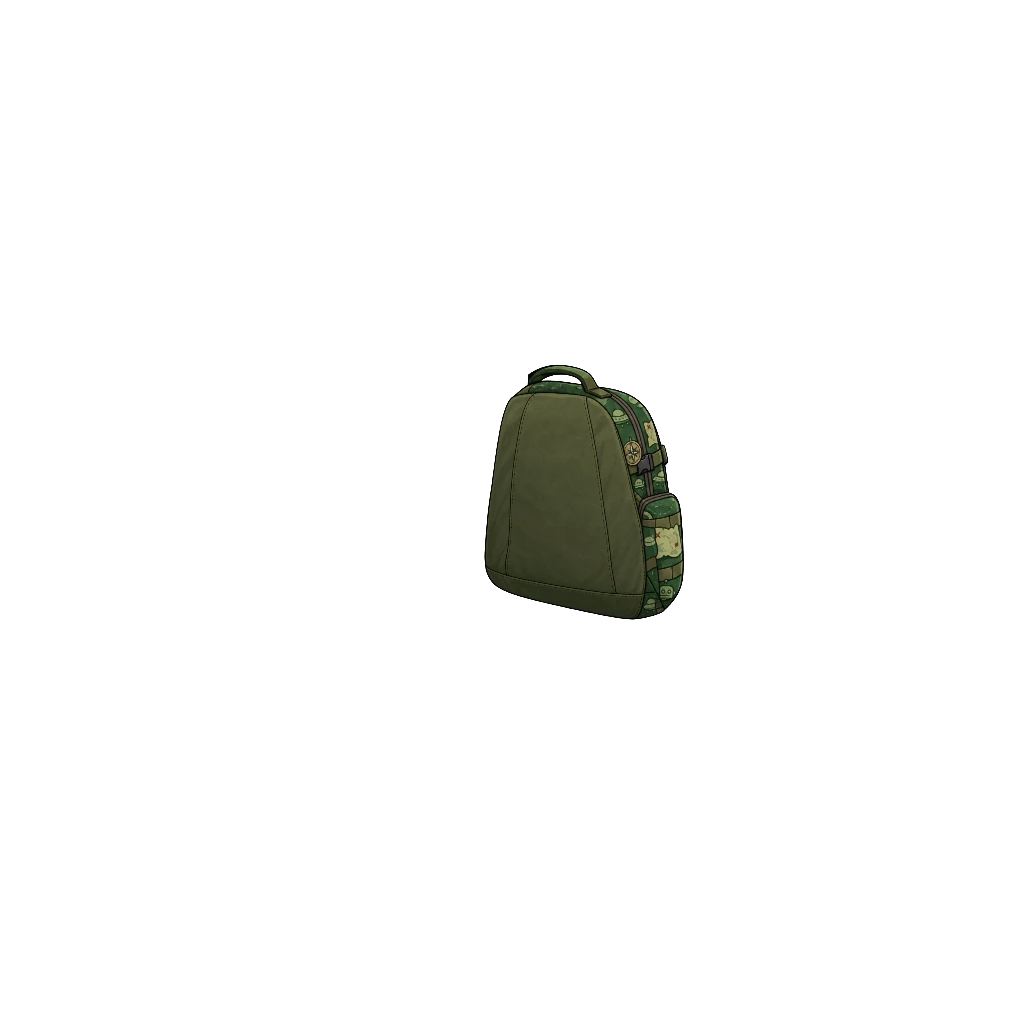
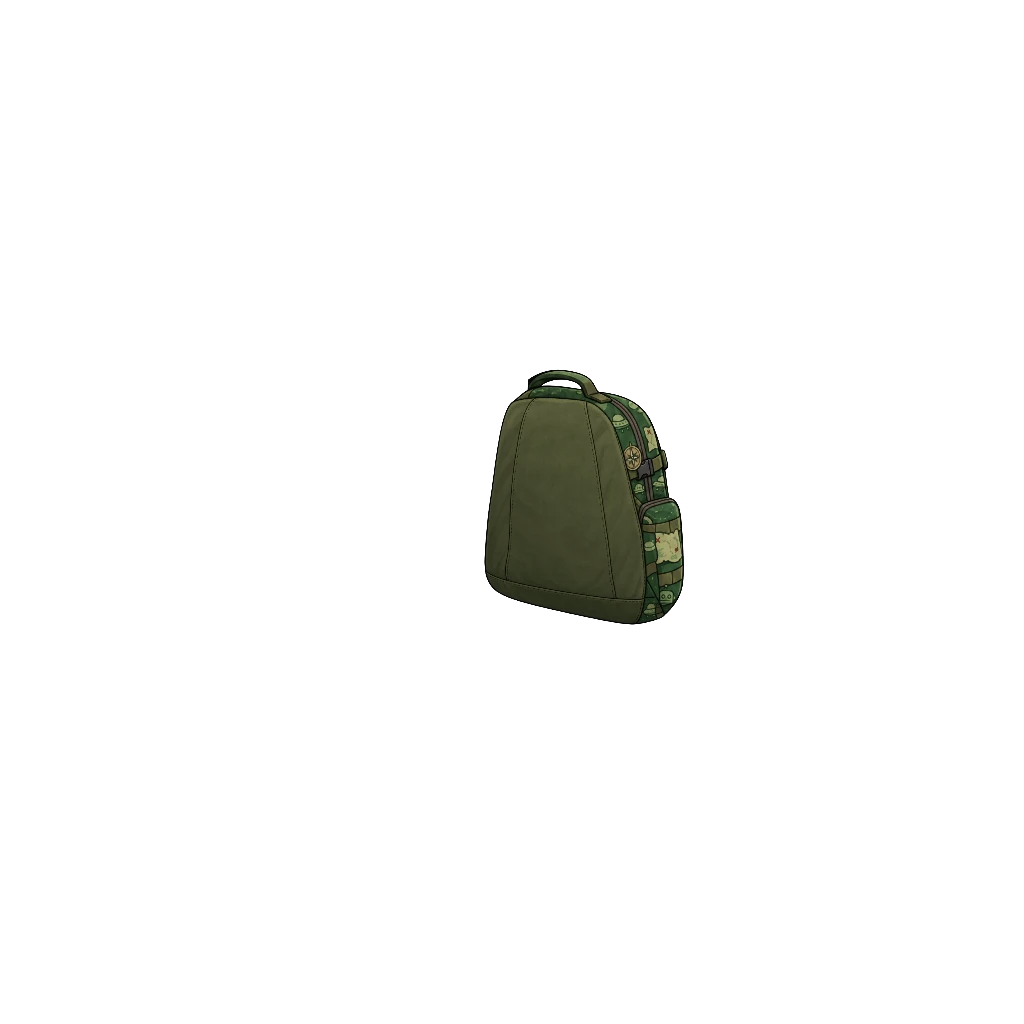
탐험가 가방: 배낭만 아래로 5 (#1028)
Claude-Session: https://claude.ai/code/session_018maNuYqDfFyRSe9uKpZhPR

Changed region(s): [[0.4688, 0.3438, 0.6875, 0.625]]

diff --git a/src/data/avatarEquipment.js b/src/data/avatarEquipment.js
@@ -567,8 +567,9 @@ export const AVATAR_CATALOG = [
      + 올리브 어깨끈 두 줄(버클 두 개씩, 1023×708). 정글 탐험대와 짝. 참고 그림을 정글 탐험대 가슴으로 매칭해 아바타 좌표에 올림.
      배낭은 몸 뒤 오른쪽(등 장비 기본 z15) — 배율 0.22, 오른쪽 끝 x684·아래 끝 y620, 상자 (484,364,684,620).
      어깨끈은 조각마다(왼 x0~308·오른 x709~) 배율 0.21, 윗선 어깨선·바깥선은 옷마다 그 옷의 팔과 몸통 사이 선(topVariant), 옷 위 zFront 48.
-     칼라가 끈 위로 — 바다·번개·썸머·도토리·우주는 칼라·후드 모양대로 끈을 지움. */
-  { id: "back_xpack_boy", slot: "back", label: "탐험가 가방", emoji: "🎒", price:DECOR_PRICE.rare, rarity: "rare", theme: "adventure", forGender: "boy", img: "assets/avatar/back/explorer-bag-boy.webp", imgFront: "assets/avatar/back/explorer-bag-straps-boy.webp", zFront: 48, topVariant: { top_tee_white: { imgFront: "assets/avatar/back/explorer-bag-straps-tee-boy.webp" }, top_vest: { imgFront: "assets/avatar/back/explorer-bag-straps-vest-boy.webp" }, top_pirate: { imgFront: "assets/avatar/back/explorer-bag-straps-pirate-boy.webp" }, top_hoodie_mint: { imgFront: "assets/avatar/back/explorer-bag-straps-hoodie-boy.webp" }, top_board_boy: { imgFront: "assets/avatar/back/explorer-bag-straps-board-boy.webp" }, top_acorn: { imgFront: "assets/avatar/back/explorer-bag-straps-acorn-boy.webp" }, top_space: { imgFront: "assets/avatar/back/explorer-bag-straps-space-boy.webp" }, top_beach_boy: { imgFront: "assets/avatar/back/explorer-bag-straps-beach-boy.webp" } }, thumb: "assets/avatar/thumb/back_xpack_boy.webp" },
+     칼라가 끈 위로 — 바다·번개·썸머·도토리·우주는 칼라·후드 모양대로 끈을 지움.
+     [2026-10-13] 사용자 조정 — 배낭만 아래로 5(아래 끝 y625, ?v=2). 상자 (484,369,684,625). */
+  { id: "back_xpack_boy", slot: "back", label: "탐험가 가방", emoji: "🎒", price:DECOR_PRICE.rare, rarity: "rare", theme: "adventure", forGender: "boy", img: "assets/avatar/back/explorer-bag-boy.webp?v=2", imgFront: "assets/avatar/back/explorer-bag-straps-boy.webp", zFront: 48, topVariant: { top_tee_white: { imgFront: "assets/avatar/back/explorer-bag-straps-tee-boy.webp" }, top_vest: { imgFront: "assets/avatar/back/explorer-bag-straps-vest-boy.webp" }, top_pirate: { imgFront: "assets/avatar/back/explorer-bag-straps-pirate-boy.webp" }, top_hoodie_mint: { imgFront: "assets/avatar/back/explorer-bag-straps-hoodie-boy.webp" }, top_board_boy: { imgFront: "assets/avatar/back/explorer-bag-straps-board-boy.webp" }, top_acorn: { imgFront: "assets/avatar/back/explorer-bag-straps-acorn-boy.webp" }, top_space: { imgFront: "assets/avatar/back/explorer-bag-straps-space-boy.webp" }, top_beach_boy: { imgFront: "assets/avatar/back/explorer-bag-straps-beach-boy.webp" } }, thumb: "assets/avatar/thumb/back_xpack_boy.webp" },
   /* 들꽃 크로스백 [2026-10-05] — 여아. 갈색 가죽 크로스백(흰 들꽃 장식), 사용자 원화 230×343. 들꽃 탐험가 옷과 짝.
      사용자 배치 참고 그림(얼굴 매칭 0.915)에 맞춤 — 가방 몸통 매칭(0.986) 배율 0.73·-1° 회전, 끈·가방 이음매 (526,568).
      끈은 가방에서 떼어 옷깃 아래 끝(463,421)까지 늘이고(×0.998) y419 위는 지워 옷깃 밑으로 들어가 보이게.

diff --git a/art-src/README.md b/art-src/README.md
@@ -653,4 +653,4 @@ bbox로 여백만 잘라내고 배포본은 높이 480px로 축소했다(전부 
 | (원본 같음) 어깨끈 가방 5종 | **칼라가 끈 위로 (2026-10-13)** — 해적 가방에서 정한 규칙을 기존 가방에도: 탐험 가방(남)·번개 크로스백(남)·들꽃 크로스백·딸기 크로스백·하늘 가방. 옷마다 칼라(남아는 바다·번개 후드, 썸머 칼라, 도토리 잎 칼라, 우주 목 링 / 여아는 칼라 7벌 + 마법사 망토 모자)대로 끈을 지움. 이미 옷 전용 그림이 있던 것은 덮어쓰고 ?v 올림, 없던 것은 -<옷>- 판을 새로 | avatar/back/explorer-pack-straps-{hoodie,board,acorn}-boy.webp (썸머·우주는 사용자 요청으로 원래대로 — 판 삭제) · cross-bag-{hoodie,beach,board,acorn}-boy.webp · wildflower-crossbag-front-{picnic,magic,raincoat,delivery,pirate}-girl.webp · strawberry-crossbag-strap-{vest,magic,raincoat,delivery,pirate}-girl.webp · sky-bag-{vest,magic,delivery,pirate}-girl.webp |
 | (원본 같음) sea-tank *-src.webp | **바다 산소통 → 가방 칸 (2026-10-13)** — 메는 장비라 손 칸에서 가방 칸(back)으로 옮김(id·그림 경로 그대로). 칼라가 끈 위로 규칙도 적용 — 번개·썸머는 옷 칼라·후드 모양대로 끈을 지운 판 | avatar/hand/sea-tank-straps-{board,beach}-boy.webp (바다·도토리는 사용자 요청으로 원래대로 — 판 삭제) |
 | tube-bag-boy-src.webp · tube-bag-straps-boy-src.webp | **튜브 가방 원화 남아 (사용자 원화 2026-10-13)** — 주황·흰 구명 튜브(청록 손잡이·조개 장식) 425×459 + 청록 어깨끈 두 줄 276×169, 썸머 웨이브와 짝. 참고 그림(썸머 웨이브 가슴 매칭 0.957)대로 튜브는 몸 뒤 오른쪽(z15) 배율 0.50·-8°, 상자 (502,369,713,602). 어깨끈은 조각마다 배율 0.60, 윗선 어깨선·바깥선은 옷마다 그 옷의 팔과 몸통 사이 선, zFront 48. 칼라 있는 5벌(바다·번개·썸머·도토리·우주)은 칼라 모양대로 끈을 지움. 상점 그림은 튜브 원화를 세로 160px 로 | avatar/back/tube-bag-boy.webp · avatar/back/tube-bag-straps-boy.webp · avatar/back/tube-bag-straps-{tee,vest,pirate,hoodie,board,acorn,space,beach}-boy.webp · thumb/back_tube_boy.webp |
-| explorer-bag-boy-src.webp · explorer-bag-straps-boy-src.webp | **탐험가 가방 원화 남아 (사용자 원화 2026-10-13)** — 올리브 배낭(옆면 UFO·지도 무늬·나침반) + 올리브 어깨끈 두 줄(버클 두 개씩), 정글 탐험대와 짝. 원화의 반투명 잡티(알파 24 미만)는 지우고 오려 보관(907×1160·1023×708). 참고 그림(정글 탐험대 가슴 매칭)대로 배낭은 몸 뒤 오른쪽(z15) 배율 0.22, 상자 (484,364,684,620). 어깨끈은 조각마다 배율 0.21, 윗선 어깨선·바깥선은 옷마다 그 옷의 팔과 몸통 사이 선, zFront 48. 칼라 있는 5벌은 칼라 모양대로 끈을 지움. 상점 그림은 배낭 원화를 세로 160px 로 | avatar/back/explorer-bag-boy.webp · avatar/back/explorer-bag-straps-boy.webp · avatar/back/explorer-bag-straps-{tee,vest,pirate,hoodie,board,acorn,space,beach}-boy.webp · thumb/back_xpack_boy.webp |
+| explorer-bag-boy-src.webp · explorer-bag-straps-boy-src.webp | **탐험가 가방 원화 남아 (사용자 원화 2026-10-13)** — 올리브 배낭(옆면 UFO·지도 무늬·나침반) + 올리브 어깨끈 두 줄(버클 두 개씩), 정글 탐험대와 짝. 원화의 반투명 잡티(알파 24 미만)는 지우고 오려 보관(907×1160·1023×708). 참고 그림(정글 탐험대 가슴 매칭)대로 배낭은 몸 뒤 오른쪽(z15) 배율 0.22, 상자 (484,364,684,620). → 배낭만 아래로 5, 상자 (484,369,684,625)(?v=2). 어깨끈은 조각마다 배율 0.21, 윗선 어깨선·바깥선은 옷마다 그 옷의 팔과 몸통 사이 선, zFront 48. 칼라 있는 5벌은 칼라 모양대로 끈을 지움. 상점 그림은 배낭 원화를 세로 160px 로 | avatar/back/explorer-bag-boy.webp · avatar/back/explorer-bag-straps-boy.webp · avatar/back/explorer-bag-straps-{tee,vest,pirate,hoodie,board,acorn,space,beach}-boy.webp · thumb/back_xpack_boy.webp |
